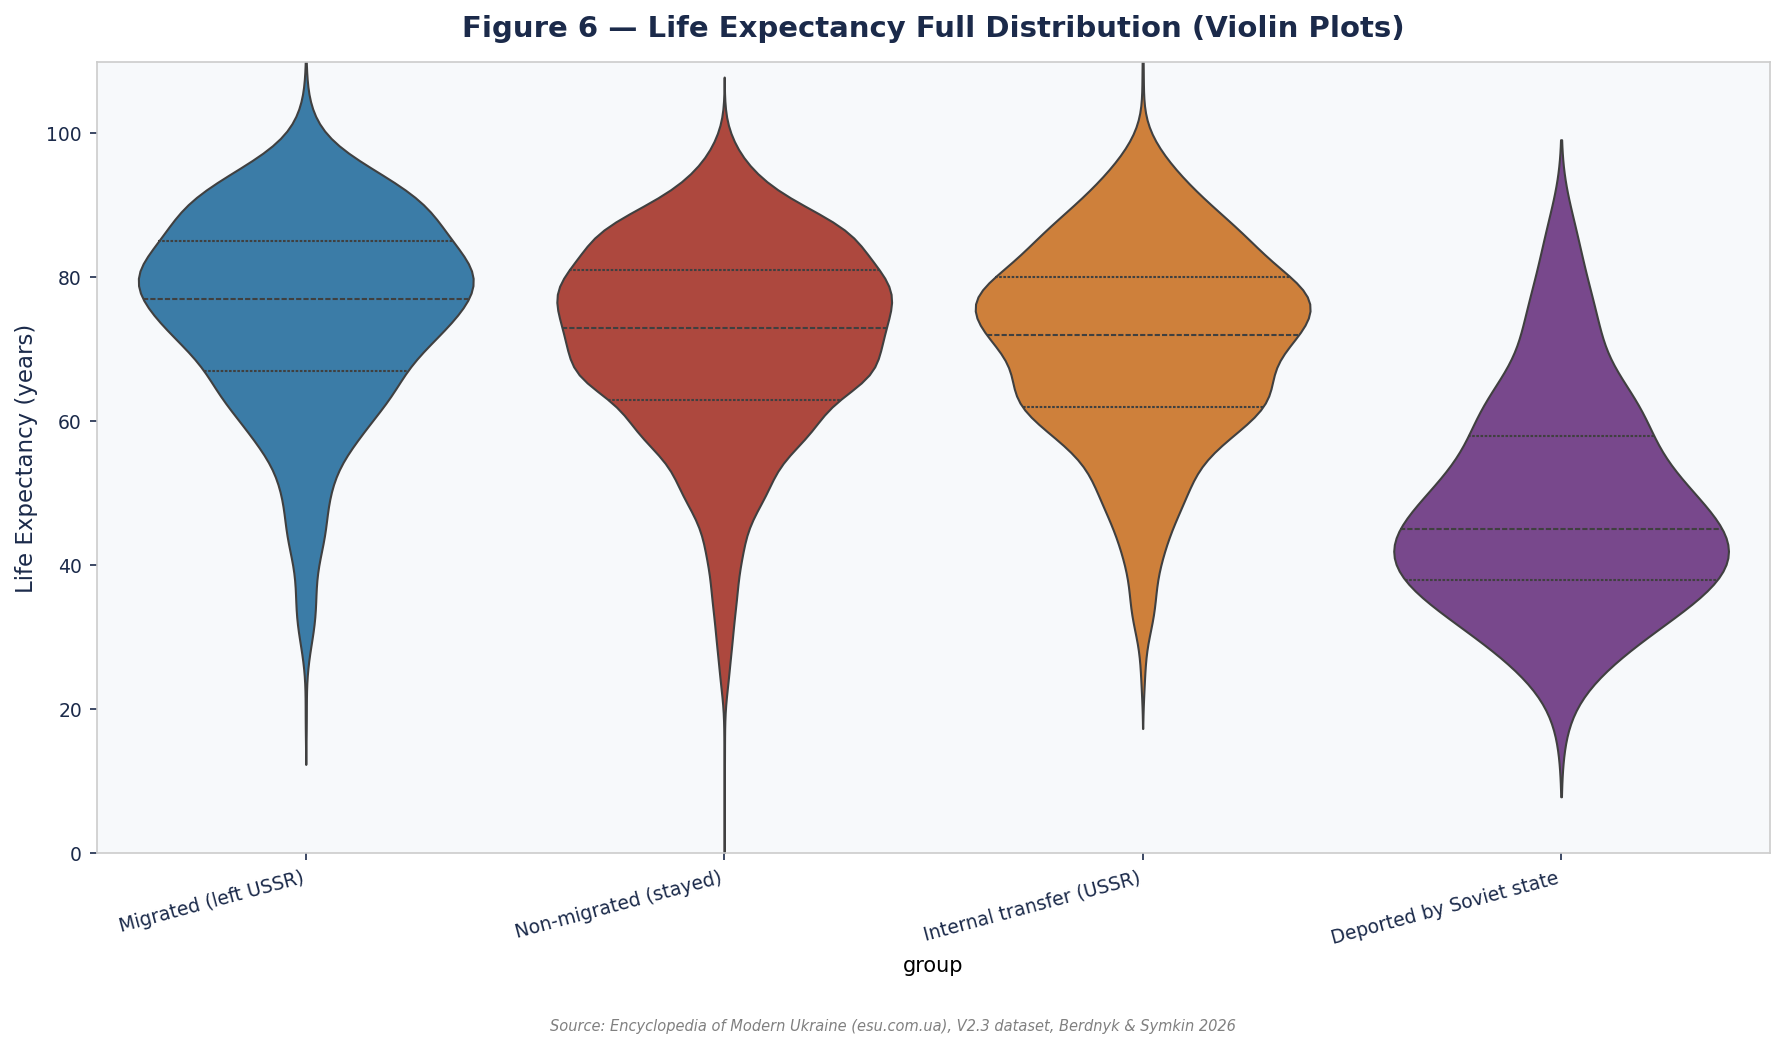
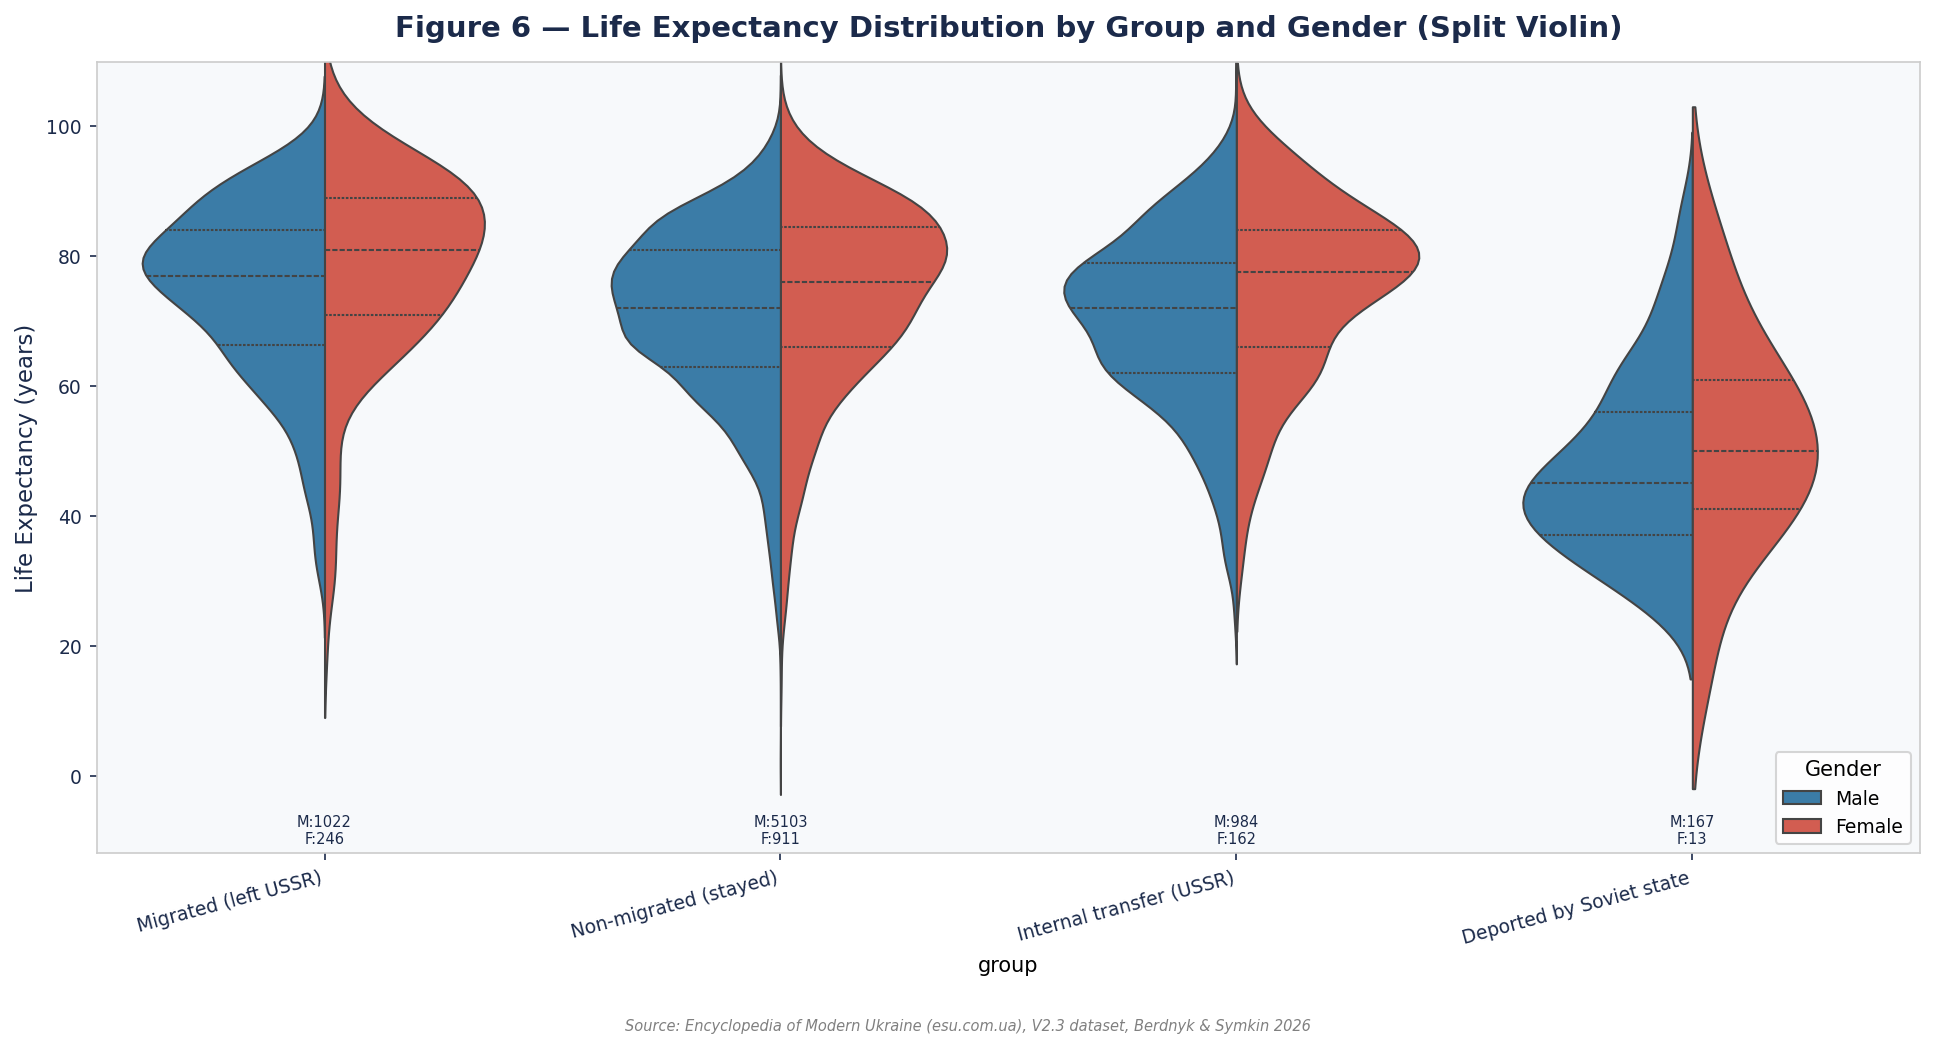
fig06: split violin by gender; fig10: fix overlapping labels
fig06: violin plots now split by gender (Male=blue left, Female=red right)
per group, with M:/F: sample counts annotated. Reveals that the group-level
mortality patterns (migrated upper tail, deported truncation) hold for both sexes.

fig10: per-group fixed label direction (migrated up-left, non_migrated down-right,
internal_transfer up, deported down) + small x-nudge replaces the broken
per-index alternating approach that caused same-decade labels to collide.

Caption for Figure 6 updated in PAPER_DRAFT.md.

diff --git a/ukraine_v2/generate_analysis.py b/ukraine_v2/generate_analysis.py
@@ -669,24 +669,39 @@ save(fig, 'fig05_deported_age_histogram.png')
 
 
 # ===========================================================================
-# FIG 06 — VIOLIN PLOTS (4 GROUPS)
+# FIG 06 — VIOLIN PLOTS (4 GROUPS, SPLIT BY GENDER)
 # ===========================================================================
 print("  fig06_violin_plots.png")
 
+_gender_palette = {'Male': '#2980B9', 'Female': '#E74C3C'}
 df_violin = pd.DataFrame([
-    {'group': GROUP_LABELS[ms], 'le': r['_le']}
-    for ms in ALL_GROUPS for r in groups[ms] if r['_le'] is not None
+    {'group': GROUP_LABELS[ms],
+     'le':    r['_le'],
+     'gender': r.get('gender', 'unknown').capitalize()}
+    for ms in ALL_GROUPS for r in groups[ms]
+    if r['_le'] is not None and r.get('gender', 'unknown').lower() in ('male', 'female')
 ])
 
-fig, ax = plt.subplots(figsize=(12, 7))
-palette = {GROUP_LABELS[ms]: COLOUR[ms] for ms in ALL_GROUPS}
-sns.violinplot(data=df_violin, x='group', y='le', palette=palette,
-               inner='quartile', ax=ax, linewidth=1)
+_order = [GROUP_LABELS[ms] for ms in ALL_GROUPS]
+fig, ax = plt.subplots(figsize=(13, 7))
+sns.violinplot(data=df_violin, x='group', y='le', hue='gender',
+               split=True, inner='quartile', palette=_gender_palette,
+               order=_order, ax=ax, linewidth=1)
 
-apply_style(ax, 'Figure 6 — Life Expectancy Full Distribution (Violin Plots)',
+# Annotate n (male / female) below each violin pair
+for i, ms in enumerate(ALL_GROUPS):
+    nm = sum(1 for r in groups[ms]
+             if r.get('gender', '').lower() == 'male' and r['_le'] is not None)
+    nf = sum(1 for r in groups[ms]
+             if r.get('gender', '').lower() == 'female' and r['_le'] is not None)
+    ax.text(i, -6, f"M:{nm}\nF:{nf}", ha='center', va='top',
+            fontsize=7, color=COLOUR['navy'])
+
+apply_style(ax, 'Figure 6 — Life Expectancy Distribution by Group and Gender (Split Violin)',
             xlabel='', ylabel='Life Expectancy (years)')
-ax.set_xticklabels([GROUP_LABELS[ms] for ms in ALL_GROUPS], rotation=15, ha='right')
-ax.set_ylim(0, 110)
+ax.set_xticklabels(_order, rotation=15, ha='right')
+ax.set_ylim(-12, 110)
+ax.legend(title='Gender', fontsize=9, loc='lower right')
 plt.tight_layout(rect=[0, 0.04, 1, 1])
 add_source(fig)
 save(fig, 'fig06_violin_plots.png')
@@ -873,6 +888,12 @@ for dec in decades_ch:
 fig, ax = plt.subplots(figsize=(13, 7))
 MARKERS10 = {'migrated': 'o', 'non_migrated': 's', 'internal_transfer': '^', 'deported': 'D'}
 
+# Fixed per-group label direction + x-nudge so labels at the same decade never collide
+_LBL_DY = {'migrated': +14, 'non_migrated': -14,
+            'internal_transfer': +7, 'deported': -7}   # points
+_LBL_DX = {'migrated': -3,  'non_migrated': +3,
+            'internal_transfer': -1, 'deported': +1}   # points
+
 for ms in ALL_GROUPS:
     vals = cohort_means[ms]
     xs   = [dec for dec, v in zip(valid_decs, vals) if v is not None]
@@ -882,12 +903,10 @@ for ms in ALL_GROUPS:
         continue
     ax.plot(xs, ys, marker=MARKERS10[ms], linestyle='-', color=COLOUR[ms],
             label=GROUP_LABELS[ms], linewidth=2, markersize=7, zorder=5)
-    # Numeric label on every dot — alternate above/below to reduce overlap
-    for j, (x_pt, y_pt, n_pt) in enumerate(zip(xs, ys, ns)):
-        offset_y = 1.5 if j % 2 == 0 else -3.0
+    for x_pt, y_pt, n_pt in zip(xs, ys, ns):
         ax.annotate(f"{y_pt:.0f}", xy=(x_pt, y_pt),
-                    xytext=(0, offset_y * 4), textcoords='offset points',
-                    ha='center', fontsize=7, color=COLOUR[ms], fontweight='bold')
+                    xytext=(_LBL_DX[ms], _LBL_DY[ms]), textcoords='offset points',
+                    ha='center', fontsize=6.5, color=COLOUR[ms], fontweight='bold')
 
 # Shade the Terror/Holodomor birth cohorts
 ax.axvspan(1890, 1910, alpha=0.06, color='#8B0000', zorder=0)

diff --git a/ukraine_v2/PAPER_DRAFT.md b/ukraine_v2/PAPER_DRAFT.md
@@ -429,7 +429,7 @@ All figures were generated computationally from the dataset described in §3 and
 
 **Figure 5:** Histogram of age at death for the deported group only (n=183), in 5-year bins from 0 to 105. A dashed vertical line marks the group mean (48.35 yrs). The distribution is sharply left-skewed with a heavy mass below age 60 and a pronounced spike in the 35–50 range, consistent with mass execution and Gulag[^9] death concentrated in mid-career individuals. The small right tail (ages 70+) represents deported workers who survived into the post-Stalin release period.
 
-**Figure 6:** Violin plots of age at death for all four groups, showing the full kernel density of the distribution alongside inner quartile lines. Violin plots reveal the shape of the data beyond what box plots show — in particular, the deported group's distribution is sharply left-skewed and truncated, consistent with a cohort subject to systematic early mortality rather than natural attrition. The migrated group's distribution shows the longest upper tail, extending into the 90s.
+**Figure 6:** Split violin plots of age at death for all four migration groups, divided by gender (blue = Male, red = Female). The left half of each violin shows the male distribution; the right half shows the female distribution. Inner quartile lines mark the median and IQR within each half. The split reveals whether the group-level mortality patterns hold for both sexes: the migrated group's long upper tail and the deported group's sharp left-skewed truncation are visible in both male and female sub-distributions. Sample counts (M: / F:) are annotated below each group.
 
 **Figure 7:** Stacked histogram of death years (2-year bins, 1900–2024) for the migrated and non-migrated groups, with vertical lines marking 1917 (Bolshevik Revolution) and 1991 (Soviet dissolution). Shows the temporal distribution of deaths across the two largest groups and makes visible the period clusters associated with Soviet mortality crises (peaks in the 1930s–1940s for non-migrants) versus the more gradual post-war distribution for migrants.
 
